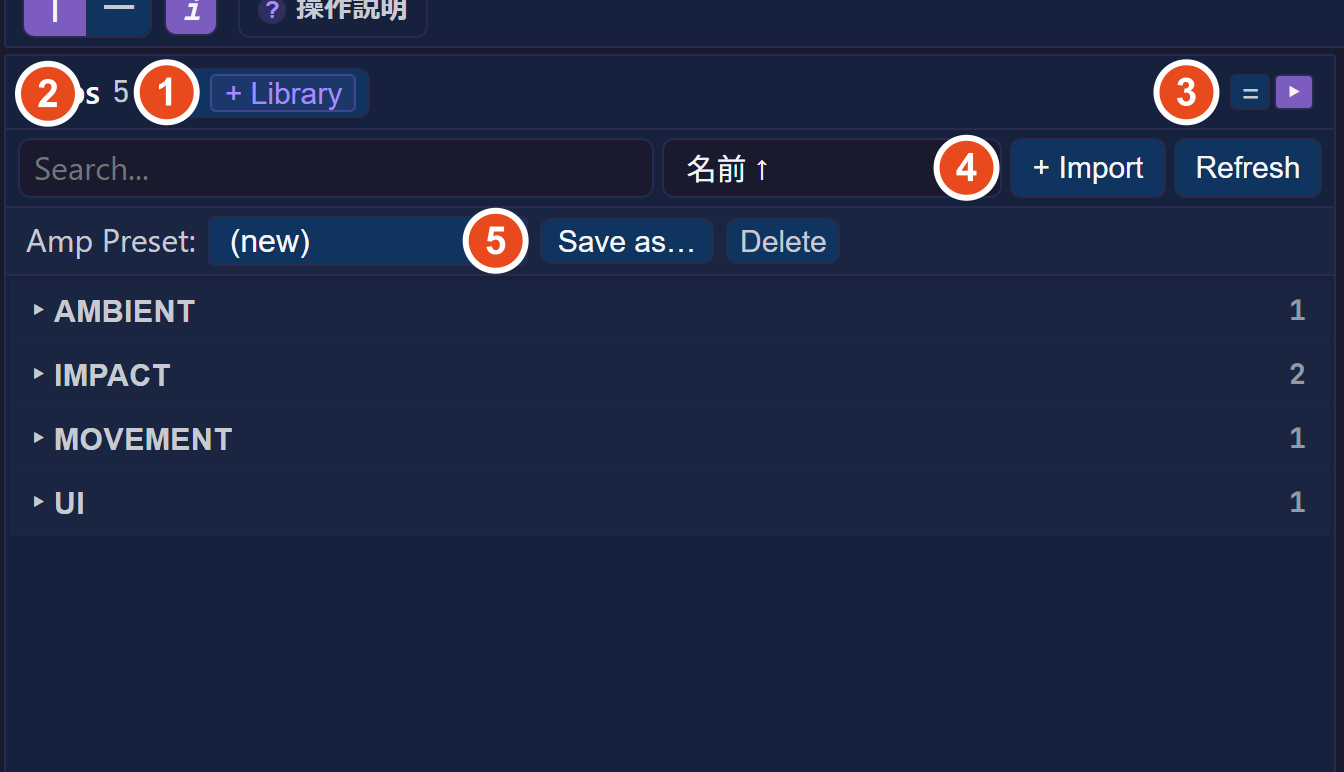
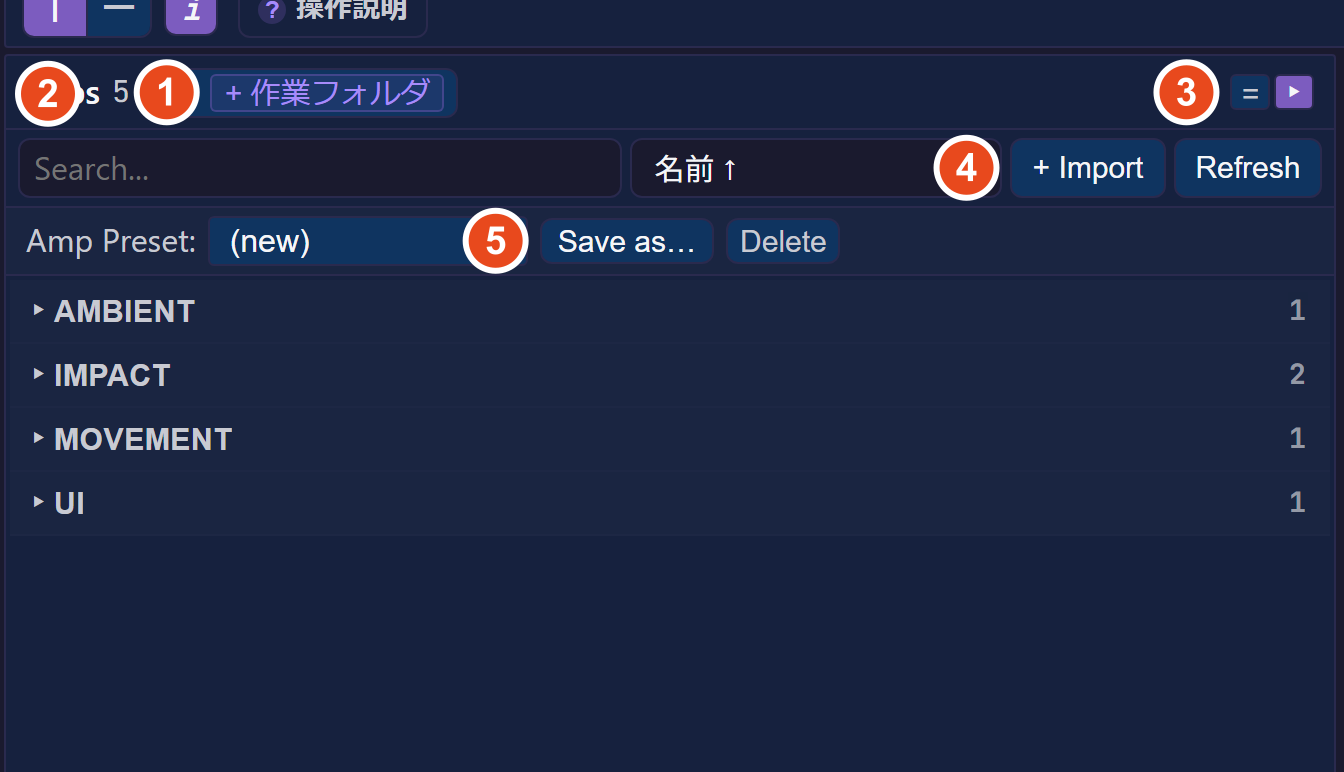
Studio docs: first steps match the new work folder guide
"Create your first Kit" and the getting-started step 4 now follow the screen:
the guide at the top ("まず作業フォルダを選んでください" / "First, choose a work
folder"), the Choose work folder button, where the sample clips appear, and
reopening the folder when the browser permission has expired. New screenshots
for both steps. The Library folder is called the work folder throughout the
Studio pages (JA and EN), matching the folder chip; the Library panel shot is
retaken with the new chip label.

Changed region(s): [[0.1875, 0.0933, 0.3438, 0.1554], [0.4688, 0.1865, 0.5625, 0.2487]]

diff --git a/docs/en/tools/studio/08-kit-tab.md b/docs/en/tools/studio/08-kit-tab.md
@@ -43,13 +43,13 @@ The selected view persists. The toolbar also provides:
 
 ## Library
 
-![Library panel. Labels: Library folder, search, flat/tree, import, and Amp presets.](@assets/studio/kit-detail-library.png)
+![Library panel. Labels: work folder, search, flat/tree, import, and Amp presets.](@assets/studio/kit-detail-library.png)
 
-The Library lists source haptic WAV files. Studio imports them from the chosen Library folder.
+The Library lists source haptic WAV files. Studio imports them from the chosen work folder.
 
 ### Folder and toolbar
 
-- **Library folder**: choose the folder containing source files. Studio reads and writes `clips/` and metadata there. Use `+ Library` when it is unset; use `⇄` to change it or `×` to clear it.
+- **Work folder**: the folder containing source files. Studio reads and writes `clips/` and metadata there. When it is unset, use "Choose work folder" in the Clips panel or the guide at the top (or "Open “(folder name)”" when the permission for the previous folder has expired); use `⇄` to change it or `×` to disconnect it.
 - **Search**: filters by name, tag, or group.
 - **Sort**: name ascending / descending, modified newest / oldest, or duration shortest / longest. The selection persists.
 - **+ Import**: imports WAV, mp3, ogg, flac, aac, or m4a from the file picker. Multiple imports show progress.
@@ -86,7 +86,7 @@ The Edit dialog supports Name (max 64, lower-case / digits / `-` / `_`), free-fo
 
 The Kit Editor lists events in the selected Kit.
 
-- **Kit folder** is the output location for `manifest.json`, `install-clips/`, and `stream-clips/`. When unset, Studio creates `<kitId>/` under the Library. Choose a Unity `Assets/.../Kits/` folder when the Unity SDK should read the Kit directly.
+- **Kit folder** is the output location for `manifest.json`, `install-clips/`, and `stream-clips/`. When unset, Studio creates `<kitId>/` inside the work folder. Choose a Unity `Assets/.../Kits/` folder when the Unity SDK should read the Kit directly.
 - **Create** uses the entered Kit name. A Kit name is also its folder name, `manifest.name`, and Event ID prefix; it follows `^[a-z][a-z0-9-]*$`.
 - **Name** is editable with the same rule; **Version** follows semver convention but is not enforced.
 - **Target Device** is optional metadata: Board, minimum firmware, and baseline volume. `⟳ Import from device` reads the current connected-device value.
@@ -114,8 +114,8 @@ Changing a mode, including bulk change, stops any preview. The Event Edit dialog
 
 | Button | Action | Requires |
 | --- | --- | --- |
-| **Save Folder** | Writes `manifest.json` and WAV files to the Kit folder; does not send to a device. | Library and Kit folders |
-| **Deploy** | Builds the same output and transfers its zip through Helper. | Library / Kit folders, Helper, and an online playback device |
+| **Save Folder** | Writes `manifest.json` and WAV files to the Kit folder; does not send to a device. | Work folder and Kit folder |
+| **Deploy** | Builds the same output and transfers its zip through Helper. | Work folder / Kit folder, Helper, and an online playback device |
 
 Unchanged audio skips WAV re-encoding, so Amp-only changes are fast. Status beside the buttons reports missing folders, invalid Kit name, saving, saved, and device readiness. With multiple devices, Studio transfers to each in turn and shows per-device progress.
 
@@ -125,9 +125,9 @@ Deployment is blocked until a Kit folder is selected, all Events have non-empty 
 
 | Data | Storage |
 | --- | --- |
-| Clip WAV and Kit output | Local Library / Kit folder (source of truth) |
+| Clip WAV and Kit output | Local work folder / Kit folder (source of truth) |
 | Clip audio and encoded WAV cache | Browser IndexedDB |
-| Clip / Kit metadata and Amp presets | JSON in the Library folder (`clips-meta.json`, `kits-meta.json`, `amp-presets.json`) |
+| Clip / Kit metadata and Amp presets | JSON in the work folder (`clips-meta.json`, `kits-meta.json`, `amp-presets.json`) |
 | View, sort, and info-toggle UI state | `localStorage` |
 
 Disk changes require **Refresh** or returning focus to the window. Kit metadata auto-saves after edits; Kit-folder WAV / manifest change only after Save Folder or Deploy.

diff --git a/docs/en/tools/studio/02-getting-started.md b/docs/en/tools/studio/02-getting-started.md
@@ -16,13 +16,25 @@ Hapbeat Studio is a haptic content design tool that runs entirely client-side in
 - To transfer Kits to a device, `hapbeat-helper` must be installed and running ([](/en/docs/tools/studio/initial-setup/))
 - A Hapbeat device with firmware flashed must be connected to Wi-Fi
 
-## 1. Open the Library Folder
+## 1. Choose a Work Folder
 
-On first launch, you will see "Please select a Library folder." The Library is the **location where your WAV clips are stored**. Select any folder you like.
+The first time you open Studio, every tab shows "**First, choose a work folder**" at the top of the screen. The work folder is a folder on your computer that holds the vibration clips (WAV) and Kit data.
 
-Sample clips are built in and will be automatically copied to an empty folder. You can also add WAV files later by drag-and-drop.
+![The first screen. The guide at the top and ① the Choose work folder button](@assets/studio/getting-started-work-folder.png)
 
-> 💡 You can optionally configure a **Kit folder** separately (via the `+ Kit` chip in the upper-right of the Kit panel). For example, pointing it to `<Project>/Assets/HapbeatSDK/Kits/` in your Unity project lets the Unity SDK read Kits created by Studio directly. If not specified, a Kit folder will be created inside the Library folder.
+1. Make a new empty folder (for example `Hapbeat` in Documents).
+2. Press ① **Choose work folder** and select that folder.
+3. Allow access if the browser asks.
+
+When you choose an empty folder, the built-in sample clips are copied into its `template/` folder and listed in the Clips panel of the Kit tab. Press ▶ to preview one.
+
+![The Kit tab after choosing a work folder. The sample vibration clips are listed in the Clips panel](@assets/studio/getting-started-sample-clips.png)
+
+If the folder already contains WAV files, Studio loads them as they are. You can also add WAV files later by drag-and-drop or `+ Import`.
+
+Studio opens the same folder next time. If the browser's permission has expired, it shows "Open your work folder again"; press **Open “(folder name)”** and allow access.
+
+> 💡 You can optionally configure a **Kit folder** separately (via the `+ Kit` chip in the upper-right of the Kit panel). For example, pointing it to `<Project>/Assets/HapbeatSDK/Kits/` in your Unity project lets the Unity SDK read Kits created by Studio directly. If not specified, a Kit folder will be created inside the work folder.
 
 ## 2. Create a New Kit
 

diff --git a/docs/en/tools/studio/05-ui-overview.md b/docs/en/tools/studio/05-ui-overview.md
@@ -38,9 +38,9 @@ The most frequently used tab. It is split into two panes (left/right or top/bott
 
 ### Library Panel (Left / Top)
 
-A list of WAV / haptic clip files, automatically imported from the Library folder.
+A list of WAV / haptic clip files, automatically imported from the work folder.
 
-- **+ Library** chip: select, change, or clear the Library folder
+- **Work folder** chip: shows the work folder; `⇄` changes it and `×` disconnects it (before one is chosen, the guide at the top and the Clips panel show **Choose work folder**)
 - **Flat list (`=`) / Tree view (`▸`)** toggle: collapse or expand the folder structure
 - **Search box**: filter by name / Note
 - **Sort select**: name / last modified / duration × ascending or descending (persisted in `localStorage`)
@@ -54,7 +54,7 @@ A list of WAV / haptic clip files, automatically imported from the Library folde
 A list of Events in the selected Kit.
 
 - **Kit name input + Create** to create a new Kit
-- **+ Kit** chip: select or clear the Kit output folder (defaults to a subfolder inside the Library folder)
+- **+ Kit** chip: select or clear the Kit output folder (defaults to a subfolder inside the work folder)
 - Each Kit row is displayed in a **3-column grid card** layout:
   - Name / Note / Mode pill (`> FIRE` / `♪ CLIP` / `>♪ BOTH`)
   - Amp slider / Edit / Swap / × (remove from Kit)
@@ -149,12 +149,12 @@ The version label next to the title in the header (`v0.2.0 ▾`) is a **dropdown
 | Data | Location |
 |---|---|
 | Library / Kit metadata (equivalent to `kits-meta.json`) | Browser **IndexedDB** |
-| Library WAVs / Kit output (`install-clips/`, `stream-clips/`, `manifest.json`) | User-specified Library / Kit **local folder** |
+| Library WAVs / Kit output (`install-clips/`, `stream-clips/`, `manifest.json`) | User-specified work folder / Kit folder (**local folder**) |
 | UI settings such as sort order and view mode | `localStorage` |
 
 Nothing is stored on any server. Studio is **fully client-side**.
 
-Migrating to another machine only requires sharing the Library folder.
+Migrating to another machine only requires sharing the work folder.
 
 ## Keyboard Shortcuts
 

diff --git a/docs/en/tools/studio/03-kit-design.md b/docs/en/tools/studio/03-kit-design.md
@@ -17,12 +17,12 @@ This page focuses on the **hands-on workflow for assembling a Kit in the Studio 
 
 ## 1. Library Folder and Kit Folder
 
-Studio manages WAV clips in a **Library folder** and writes Kit build output to a **Kit folder**.
+Studio manages WAV clips in a **work folder** and writes Kit build output to a **Kit folder**.
 
 | Role | Location |
 |---|---|
-| Library | Specified via the `+ Library` chip in the upper-right of the clip panel. Stores WAV clips |
-| Kit folder | Specified via the `+ Kit` chip in the upper-right of the Kit panel (optional). Defaults to a subfolder inside the Library folder if not set |
+| Work folder | Chosen with "Choose work folder" in the first-run guide (change it with `⇄` on the folder chip in the upper-right of the clip panel). Stores WAV clips |
+| Kit folder | Specified via the `+ Kit` chip in the upper-right of the Kit panel (optional). Defaults to a subfolder inside the work folder if not set |
 
 **Unity project integration**: point the Kit folder to `<Project>/Assets/HapbeatSDK/Kits/` so the Unity SDK can read Kits as first-class assets directly (recommended).
 

diff --git a/docs/ja/start-here/01-getting-started.md b/docs/ja/start-here/01-getting-started.md
@@ -116,8 +116,8 @@ Hapbeat を PC と同じ Wi-Fi に接続し、ディスプレイ UI を書き込
 
 Studio から Wi-Fi UDP 経由で Hapbeat に振動が出ることを確認します。Kit の作成や Deploy はこの段階では不要です。
 
-1. **ワーキングディレクトリを選択**（初回のみ）
-   左側パネルの [Choose Folder] を押下し、PC内の任意のフォルダを指定します。後で Kit を作成・保存する場所になります。
+1. **作業フォルダを選択**（初回のみ）
+   画面上部の案内にある [作業フォルダを選ぶ] を押し、PC 内のフォルダ（新しい空のフォルダがおすすめ）を指定します。サンプルの振動クリップがコピーされ、後で Kit を作成・保存する場所にもなります。
 
 2. **左パネルのライブラリからテンプレート波形を選択します。**
    組み込み済みのサンプル波形が一覧表示されます。

diff --git a/docs/en/start-here/01-getting-started.md b/docs/en/start-here/01-getting-started.md
@@ -107,8 +107,8 @@ After this step, the USB cable is generally no longer needed. All SDKs assume Ha
 
 Confirm that Studio can trigger vibration on Hapbeat over Wi-Fi UDP. You do not need to create or deploy a Kit at this stage.
 
-1. **Select a working directory** (first time only)
-   Click [Choose Folder] in the left panel and select any folder on your PC. This will be the location where Kits are created and saved.
+1. **Choose a work folder** (first time only)
+   Click [Choose work folder] in the guide at the top of the screen and select a folder on your PC (a new empty folder is recommended). The sample vibration clips are copied into it, and it is also where Kits are created and saved later.
 
 2. **Select a template waveform from the library in the left panel.**
    A list of built-in sample waveforms will appear.
